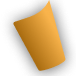
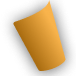
Update flipper image and effect

diff --git a/src/index.css b/src/index.css
@@ -42,7 +42,6 @@ h1 {
 
 .header .decor-bg {
   background: #f5b124;
-  z-index: -1;
   height: 100%;
   width: 56px;
 }
@@ -75,8 +74,8 @@ h1 {
   transition: transform 0.4s ease-out;
 }
 
-.diing-link:hover #logo {
-  transform: translate(0px, -2px);
+.diing-link:active #logo {
+  transform: translate(5px, 0);
 }
 
 .diing-link img {
@@ -127,5 +126,9 @@ a.button-ar:active {
   a.button-ar:hover {
     border-color: #8b60d1;
     box-shadow: 0 4px 12px rgba(139, 96, 209, 0.3);
+  }
+
+  .diing-link:hover #logo {
+    transform: translate(5px, 0);
   }
 }

diff --git a/src/App.tsx b/src/App.tsx
@@ -13,7 +13,7 @@ function Header() {
           <h1>DiingT Vol.5 in AR</h1>
         </div>
         <a className="diing-link link" rel="noreferrer" target="_blank" href="https://shop.diing.com">
-          <div className="decor-bg d-flex flex-column justify-content-center">
+          <div className="decor-bg d-flex flex-column justify-content-center align-items-center">
             <img id="logo" src={logo} alt="Diing" />
           </div>
           <div className="decor">
